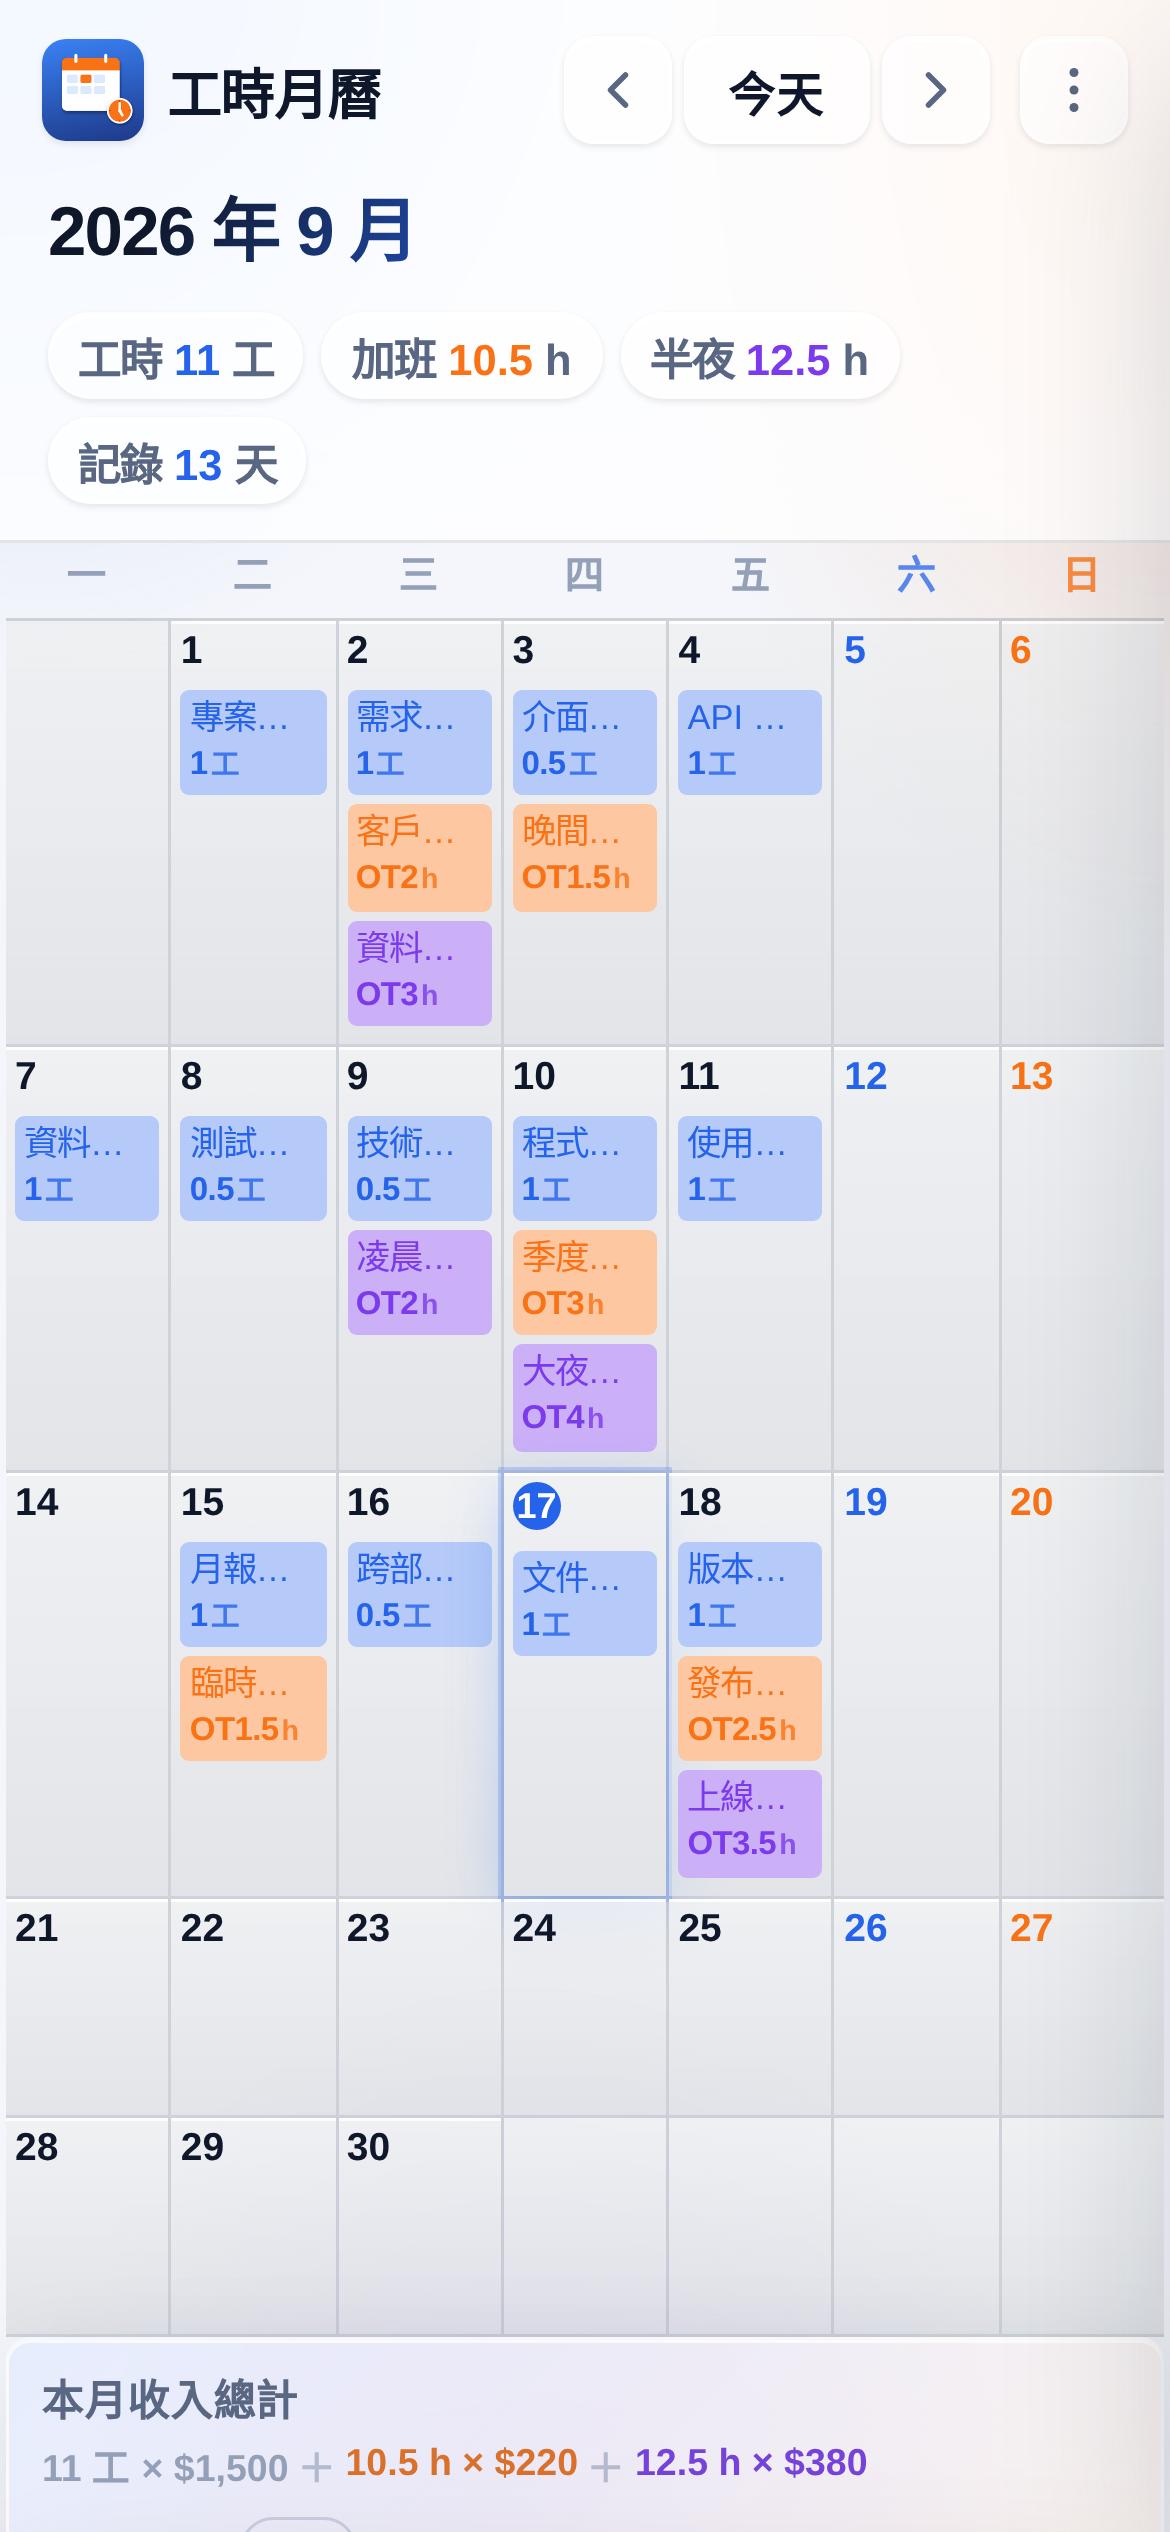
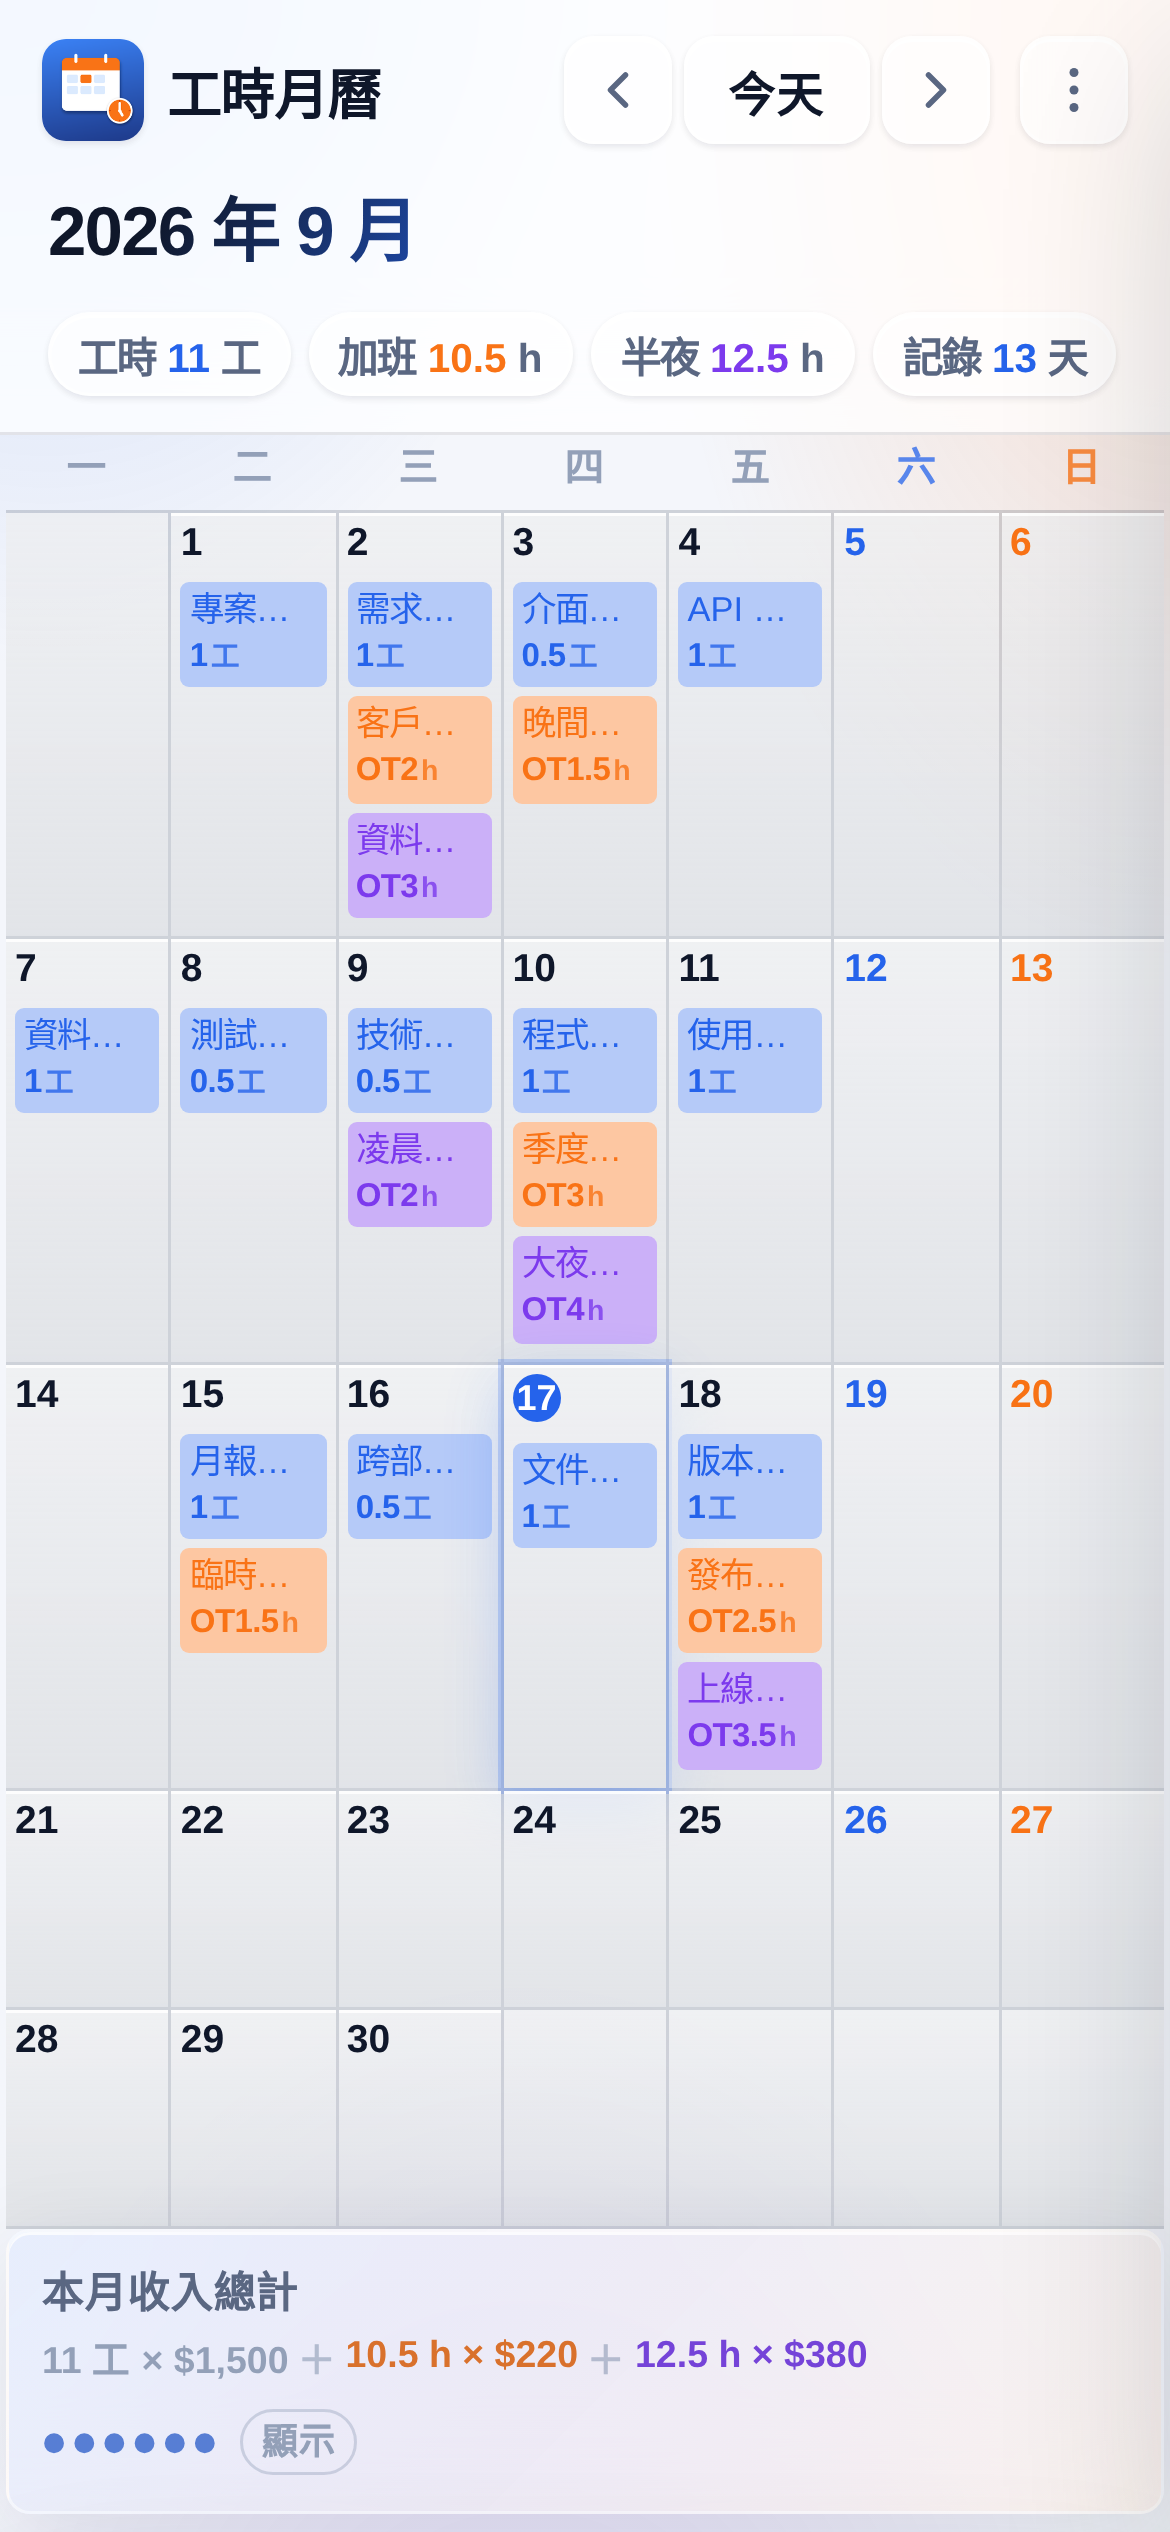
feat: 統計膠囊字級自適應 v1.18.1

diff --git a/worktime-calendar.standalone.html b/worktime-calendar.standalone.html
@@ -1970,8 +1970,8 @@ textarea::placeholder, input::placeholder { color: var(--text-3); }
   'use strict';
 
   // 由 bump-version.sh 自動維護
-  const APP_VERSION = '1.18.0';
-  const APP_BUILD = '20260917-1831';
+  const APP_VERSION = '1.18.1';
+  const APP_BUILD = '20260917-1842';
 
   const STORE_KEY = 'worktime-calendar:v1';
   const SETTINGS_KEY = 'worktime-calendar:settings:v1';
@@ -2273,6 +2273,27 @@ textarea::placeholder, input::placeholder { color: var(--text-3); }
       ${totalNight > 0 ? `<span class="stat-pill night">半夜 <b>${fmtH(totalNight)}</b> h</span>` : ''}
       <span class="stat-pill">記錄 <b>${days}</b> 天</span>
     `;
+    fitStatsRow();
+  }
+
+  /* 統計膠囊字級「按情況」自適應：內容寬到必須折行時（如手機直向四枚膠囊），
+     逐步縮小字級（每次 0.5px，下限 11px）讓膠囊排回同一行；
+     縮到下限仍放不下（極窄機＋超長數字）就回預設字級、保持換行——資訊完整優先。
+     觸發時機：每次渲染統計、視窗 resize。 */
+  function fitStatsRow() {
+    const box = el.monthStats;
+    if (!box) return;
+    box.style.fontSize = '';
+    const pills = box.querySelectorAll('.stat-pill');
+    if (pills.length < 2) return;
+    const onOneRow = () => [...pills].every((p) => p.offsetTop === pills[0].offsetTop);
+    if (onOneRow()) return;
+    let size = parseFloat(getComputedStyle(box).fontSize);
+    for (size -= .5; size >= 11; size -= .5) {
+      box.style.fontSize = size + 'px';
+      if (onOneRow()) return;
+    }
+    box.style.fontSize = '';
   }
 
   function renderWeekdayRow() {
@@ -2650,6 +2671,8 @@ textarea::placeholder, input::placeholder { color: var(--text-3); }
 
   /* ---------------- 事件綁定 ---------------- */
   function bind() {
+    /* 視窗尺寸變化時重算統計膠囊字級（轉屏、桌面拉窗） */
+    window.addEventListener('resize', fitStatsRow);
     el.prevMonth.addEventListener('click', () => {
       view = new Date(view.getFullYear(), view.getMonth() - 1, 1);
       render();

diff --git a/app.js b/app.js
@@ -7,8 +7,8 @@
   'use strict';
 
   // 由 bump-version.sh 自動維護
-  const APP_VERSION = '1.18.0';
-  const APP_BUILD = '20260917-1831';
+  const APP_VERSION = '1.18.1';
+  const APP_BUILD = '20260917-1842';
 
   const STORE_KEY = 'worktime-calendar:v1';
   const SETTINGS_KEY = 'worktime-calendar:settings:v1';
@@ -310,6 +310,27 @@
       ${totalNight > 0 ? `<span class="stat-pill night">半夜 <b>${fmtH(totalNight)}</b> h</span>` : ''}
       <span class="stat-pill">記錄 <b>${days}</b> 天</span>
     `;
+    fitStatsRow();
+  }
+
+  /* 統計膠囊字級「按情況」自適應：內容寬到必須折行時（如手機直向四枚膠囊），
+     逐步縮小字級（每次 0.5px，下限 11px）讓膠囊排回同一行；
+     縮到下限仍放不下（極窄機＋超長數字）就回預設字級、保持換行——資訊完整優先。
+     觸發時機：每次渲染統計、視窗 resize。 */
+  function fitStatsRow() {
+    const box = el.monthStats;
+    if (!box) return;
+    box.style.fontSize = '';
+    const pills = box.querySelectorAll('.stat-pill');
+    if (pills.length < 2) return;
+    const onOneRow = () => [...pills].every((p) => p.offsetTop === pills[0].offsetTop);
+    if (onOneRow()) return;
+    let size = parseFloat(getComputedStyle(box).fontSize);
+    for (size -= .5; size >= 11; size -= .5) {
+      box.style.fontSize = size + 'px';
+      if (onOneRow()) return;
+    }
+    box.style.fontSize = '';
   }
 
   function renderWeekdayRow() {
@@ -687,6 +708,8 @@
 
   /* ---------------- 事件綁定 ---------------- */
   function bind() {
+    /* 視窗尺寸變化時重算統計膠囊字級（轉屏、桌面拉窗） */
+    window.addEventListener('resize', fitStatsRow);
     el.prevMonth.addEventListener('click', () => {
       view = new Date(view.getFullYear(), view.getMonth() - 1, 1);
       render();

diff --git a/sw.js b/sw.js
@@ -8,7 +8,7 @@
  *   4. controllerchange 觸發，頁面重新載入即為新版
  * ========================================================= */
 
-const CACHE = 'worktime-calendar-v1.18.0';
+const CACHE = 'worktime-calendar-v1.18.1';
 const PRECACHE = [
   './',
   './index.html',
